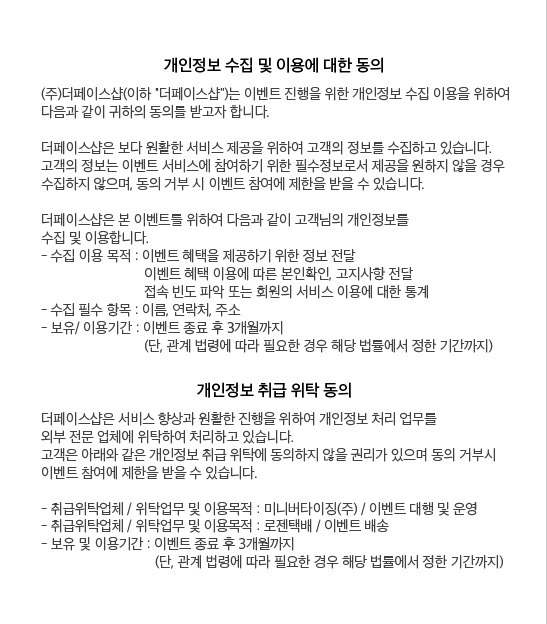
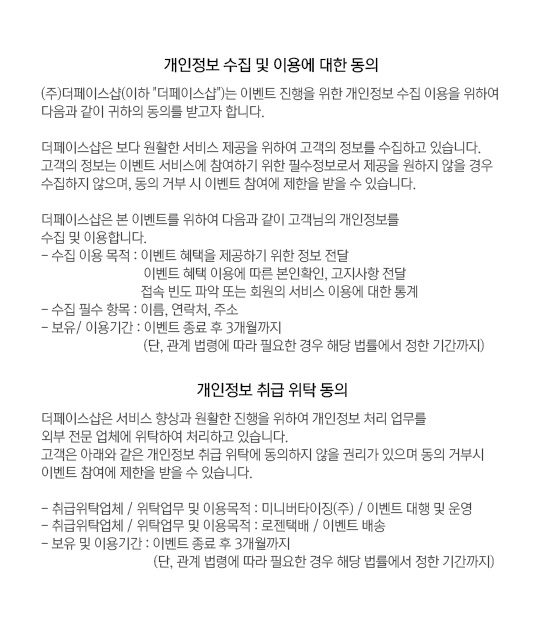
피씨 추가 업데이트

Changed region(s): [[0.0589, 0.609, 0.9429, 0.9135], [0.0589, 0.0913, 0.9429, 0.3045], [0.0589, 0.3349, 0.9134, 0.5785]]

diff --git a/PC/popups.html b/PC/popups.html
@@ -62,32 +62,36 @@
             	<div class="sec_title">
                 	<img src="images/popup/title_input.png" />
                 </div>
- 				<div class="sec_input name">
-                	<div class="inner clearfix">
-                		<div class="label">이름</div> 
-                        <div class="input"><input type="text" ></div>
+                
+                <div class="border">
+                    <div class="sec_input name">
+                        <div class="inner clearfix">
+                            <div class="label">이름</div> 
+                            <div class="input"><input type="text" ></div>
+                        </div>
                     </div>
-                </div>
- 				<div class="sec_input phone">
-                	<div class="inner clearfix">
-                		<div class="label">휴대폰번호</div> 
-                        <div class="input"><input type="text" value="('-' 없이 입력해주세요)"></div>
+                    <div class="sec_input phone">
+                        <div class="inner clearfix">
+                            <div class="label">휴대폰번호</div> 
+                            <div class="input"><input type="text" value="('-' 없이 입력해주세요)"></div>
+                        </div>
                     </div>
-                </div>
-                <div class="sec_check first">
-                	<div class="inner clearfix">
-                        <a href="#" class="checkbox"><img src="images/popup/checked.png" /> </a>
-                        <a href="#" class="label">개인정보 수집 및 위탁에 관한 동의</a>
-                        <a href="#" class="btn_detail">자세히보기</a>
+                    <div class="sec_check first">
+                        <div class="inner clearfix">
+                            <a href="#" class="checkbox"><img src="images/popup/checked.png" /> </a>
+                            <a href="#" class="label">개인정보 수집 및 위탁에 관한 동의</a>
+                            <a href="#" class="btn_detail">자세히보기</a>
+                        </div>
                     </div>
-                </div>
-                <div class="sec_check">
-                	<div class="inner clearfix">
-                        <a href="#" class="checkbox"><img src="images/popup/checked.png" /> </a>
-                        <a href="#" class="label">광고성 정보전송동의 약관</a>
-                        <a href="#" class="btn_detail">자세히보기</a>
+                    <div class="sec_check">
+                        <div class="inner clearfix">
+                            <a href="#" class="checkbox"><img src="images/popup/checked.png" /> </a>
+                            <a href="#" class="label">광고성 정보전송동의 약관</a>
+                            <a href="#" class="btn_detail">자세히보기</a>
+                        </div>
                     </div>
-                </div>
+                </div><!--border-->
+                
                 <div class="sec_btn">
                 	<a href="#"><img src="images/popup/btn_comp.png" /></a>
                 </div>
@@ -106,26 +110,30 @@
             	<div class="sec_title">
                  	<img src="images/popup/title_congr.png" />
                 </div>
- 				<div class="sec_input">
-                	<div class="inner clearfix">
-                		<div class="label">우편번호</div> 
-                        <div class="input add"><input type="text">-<input type="text"></div>
-                        <div class="btn_sear"><a href="#">찾기</a></div> 
+                
+                <div class="border">
+                    <div class="sec_input">
+                        <div class="inner clearfix">
+                            <div class="label">우편번호</div> 
+                            <div class="input add"><input type="text">-<input type="text"></div>
+                            <div class="btn_sear"><a href="#">찾기</a></div> 
+                        </div>
+                    </div> 
+                    <div class="sec_input">
+                        <div class="inner clearfix">
+                            <div class="label">상세주소</div> 
+                            <div class="input"><input type="text"></div>
+                        </div>
+                        <div class="inner clearfix">
+                            <div class="label"></div> 
+                            <div class="input"><input type="text"></div>
+                        </div>
                     </div>
-                </div> 
- 				<div class="sec_input">
-                	<div class="inner clearfix">
-                		<div class="label">상세주소</div> 
-                        <div class="input"><input type="text"></div>
+                    <div class="sec_txt">
+                        <img src="images/popup/txt_notice.png" />
                     </div>
-                	<div class="inner clearfix">
-                		<div class="label"></div> 
-                        <div class="input"><input type="text"></div>
-                    </div>
-                </div>
-                <div class="sec_txt">
-                	<img src="images/popup/txt_notice.png" />
-                </div>
+                </div><!--border-->
+                
                 <div class="sec_btn">
                 	<a href="#"><img src="images/popup/btn_comp.png" /></a>
                 </div> 

diff --git a/PC/css/style_yang.css b/PC/css/style_yang.css
@@ -146,11 +146,11 @@ body.main{
 }
 /*popup 사이즈 조절*/
 .popup_wrap .p_basic.agree_1{
-    width:547px;
+    width:543px;
 	height:624px; 
 }
 .popup_wrap .p_basic.agree_2{
-    width:547px;
+    width:543px;
 	height:352px;
 }
 .popup_wrap .p_basic.input_info{
@@ -255,8 +255,20 @@ body.main{
 	padding:50px 0 20px;
 }
 
+.popup_wrap .p_basic .block_content .border{
+	padding:15px;
+	border:1px solid #ced7d2;
+	margin:0 35px 15px;
+}
+.popup_wrap .p_basic.comp_1 .block_content .border{
+	padding:15px 15px 0;
+
+}
+
+
+
 .popup_wrap .p_basic .block_content .sec_input{
-	padding-left:50px;
+	padding-left:0;
 	padding-bottom:3px; 
 }
 .popup_wrap .p_basic .block_content .sec_input .inner .label,
@@ -298,7 +310,7 @@ body.main{
 	background:#687e71;
 }
 .popup_wrap .p_basic .block_content .sec_check{
-	padding-left:50px;
+	padding-left:0;
 	font-size:12px; 
 }
 .popup_wrap .p_basic .block_content .sec_check a{
@@ -321,8 +333,8 @@ body.main{
 	padding-top:10px;  
 }
 .popup_wrap .p_basic.comp_1 .block_content .sec_txt{
-	padding-left:40px;
-	padding-bottom:10px; 
+	padding-left:5px;
+	padding-bottom:0; 
 }
 
 
